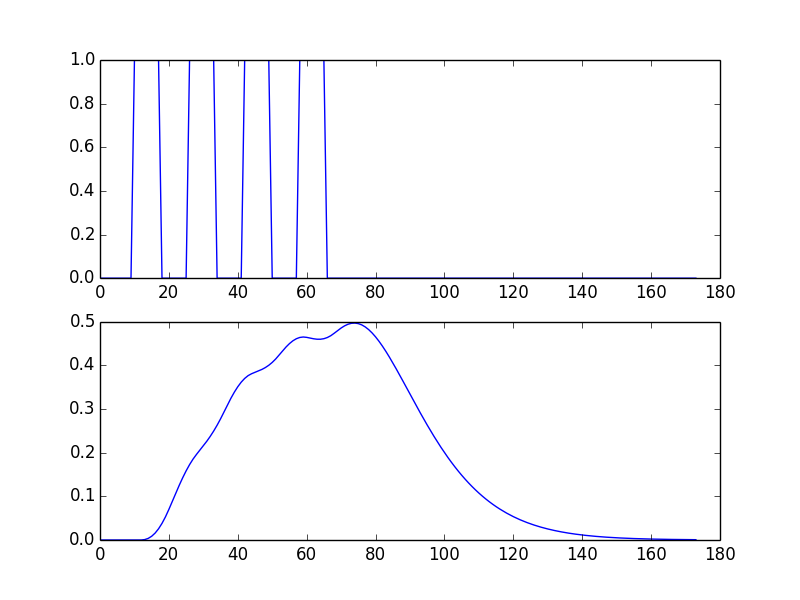
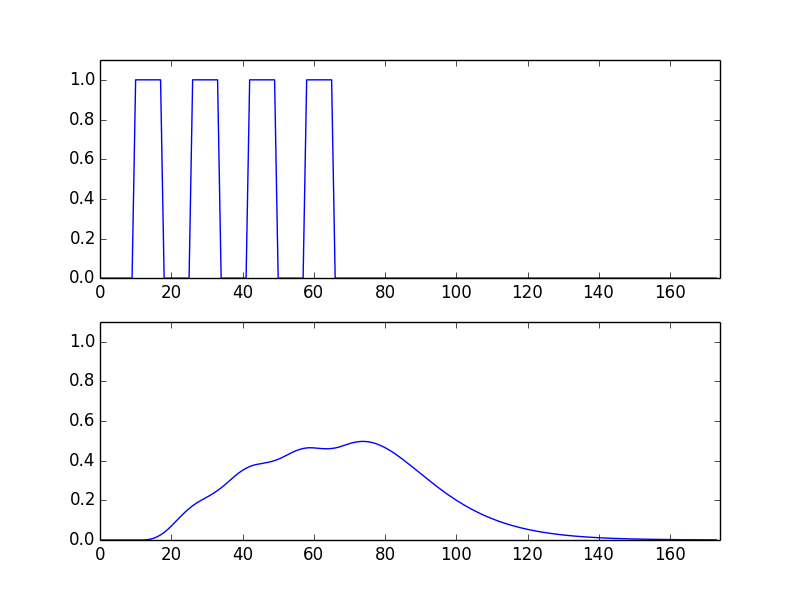
fixed the axes

diff --git a/SWE001/6.02s2009/labs/lab2/lab2_2.py b/SWE001/6.02s2009/labs/lab2/lab2_2.py
@@ -16,9 +16,15 @@ def test_channel(channel):
     message = [1,0,1,0,1,0,1,0]
     inp = lab2_1.transmit(message,10,100)
     out = channel(inp)
+    upper = max(max(inp),max(out))
+    lower = min(min(inp),min(out))
+    upper = upper + abs(upper)*0.1		# leave some space at the edges, unless that edge is 0
+    lower = lower - abs(lower)*0.1
     p.subplot(211)
+    p.axis([0,len(inp),lower,upper])	# custom axis scaling
     p.plot(inp)
     p.subplot(212)
+    p.axis([0,len(inp),lower,upper])	# make the axes the same
     p.plot(out)
     p.savefig(name+'.png')
     p.clf()
